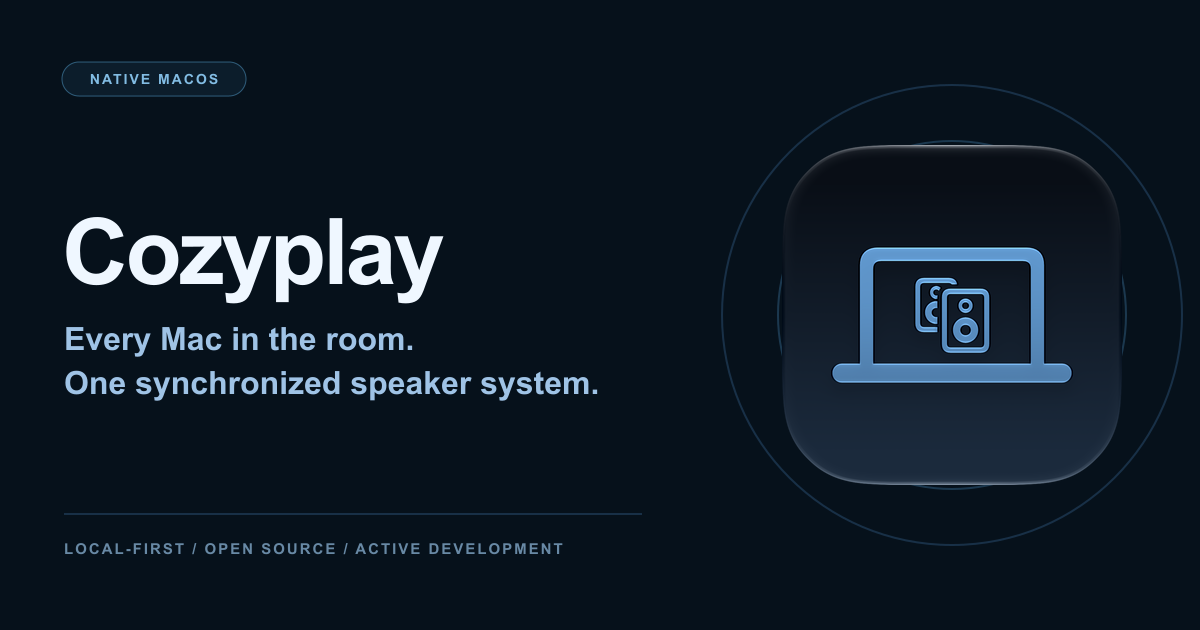
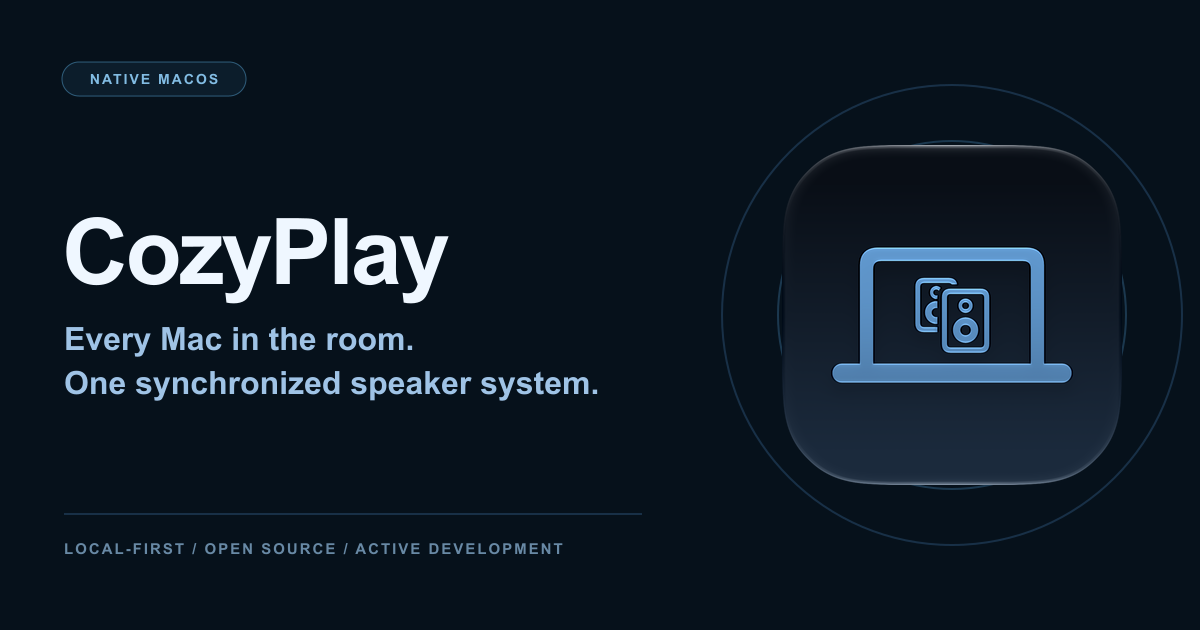
fix(web): capitalize CozyPlay branding

Changed region(s): [[0.2158, 0.3317, 0.37, 0.4825]]

diff --git a/apps/web/src/app/(projects)/Cozyplay/page.tsx b/apps/web/src/app/(projects)/Cozyplay/page.tsx
@@ -1,20 +1,20 @@
 import Image from "next/image";
 import { ViewTransition } from "react";
 
-import { CozyplayIcon } from "@/assets/images/products";
+import { CozyPlayIcon } from "@/assets/images/products";
 
 import type { Metadata } from "next";
 
 const description =
-  "Turn Macs on the same local network into one synchronized speaker system with Cozyplay.";
+  "Turn Macs on the same local network into one synchronized speaker system with CozyPlay.";
 
 export const metadata: Metadata = {
-  title: "Cozyplay",
+  title: "CozyPlay",
   description,
   keywords: [
     "Brian Newton",
     "CozyBrian",
-    "Cozyplay",
+    "CozyPlay",
     "macOS",
     "multi-room audio",
     "synchronized audio",
@@ -25,7 +25,7 @@ export const metadata: Metadata = {
     canonical: "/Cozyplay",
   },
   openGraph: {
-    title: "Cozyplay | Brian Newton",
+    title: "CozyPlay | Brian Newton",
     description,
     url: "https://www.cozybrian.dev/Cozyplay",
     siteName: "Brian Newton",
@@ -34,7 +34,7 @@ export const metadata: Metadata = {
   },
   twitter: {
     card: "summary_large_image",
-    title: "Cozyplay | Brian Newton",
+    title: "CozyPlay | Brian Newton",
     description,
   },
 };
@@ -58,11 +58,11 @@ const features = [
   {
     title: "Native and local",
     description:
-      "Cozyplay is built in SwiftUI with Apple frameworks and has no cloud backend, helper drivers, or third-party runtime dependencies.",
+      "CozyPlay is built in SwiftUI with Apple frameworks and has no cloud backend, helper drivers, or third-party runtime dependencies.",
   },
 ];
 
-export default function CozyplayPage() {
+export default function CozyPlayPage() {
   return (
     <ViewTransition>
       <main className="flex w-full lg:w-[880px] text-cozy-100 px-4 lg:px-0 min-h-screen flex-col gap-14 mx-auto mt-[60px] md:mt-[120px] pb-16">
@@ -83,11 +83,11 @@ export default function CozyplayPage() {
                   Native synchronized audio for macOS
                 </p>
                 <h1 className="text-4xl font-bold tracking-tight text-cozy-50 md:text-5xl">
-                  Cozyplay
+                  CozyPlay
                 </h1>
                 <p className="max-w-[580px] text-base leading-7 text-cozy-300 md:text-lg">
                   Turn the Macs around you into one speaker system. One Mac
-                  hosts whatever it is playing, nearby Macs join, and Cozyplay
+                  hosts whatever it is playing, nearby Macs join, and CozyPlay
                   keeps every output on the same timeline.
                 </p>
               </div>
@@ -117,8 +117,8 @@ export default function CozyplayPage() {
 
             <div className="relative mx-auto flex h-52 w-52 items-center justify-center md:h-60 md:w-60">
               <Image
-                src={CozyplayIcon}
-                alt="Cozyplay app icon"
+                src={CozyPlayIcon}
+                alt="CozyPlay app icon"
                 priority
                 className="relative h-full w-full object-contain"
               />
@@ -207,7 +207,7 @@ export default function CozyplayPage() {
               Your audio stays in the room
             </h2>
             <p className="text-sm leading-6 text-cozy-400">
-              Cozyplay communicates directly with Macs that join the advertised
+              CozyPlay communicates directly with Macs that join the advertised
               local party. It has no analytics, advertising, user accounts, or
               remote API, and it does not write captured audio to disk.
             </p>
@@ -238,7 +238,7 @@ export default function CozyplayPage() {
                 Build from source
               </p>
               <h2 className="text-2xl font-semibold text-cozy-50">
-                Try Cozyplay before the public release
+                Try CozyPlay before the public release
               </h2>
               <p className="text-sm leading-6 text-cozy-400">
                 You will need an Apple silicon Mac, macOS 14.4 or later, Xcode

diff --git a/apps/web/src/app/(components)/projects-section.tsx b/apps/web/src/app/(components)/projects-section.tsx
@@ -25,7 +25,7 @@ const projects = [
   },
   {
     id: 4,
-    title: "Cozyplay",
+    title: "CozyPlay",
     href: "/Cozyplay",
     description:
       "Turn Macs on the same local network into one synchronized speaker system.",

diff --git a/apps/web/src/assets/images/products/index.ts b/apps/web/src/assets/images/products/index.ts
@@ -1,2 +1,2 @@
-export { default as CozyplayIcon } from "./cozyplayIcon.png";
+export { default as CozyPlayIcon } from "./cozyplayIcon.png";
 export { default as NowPlayrIcon } from "./nowPlayrIcon.png";
